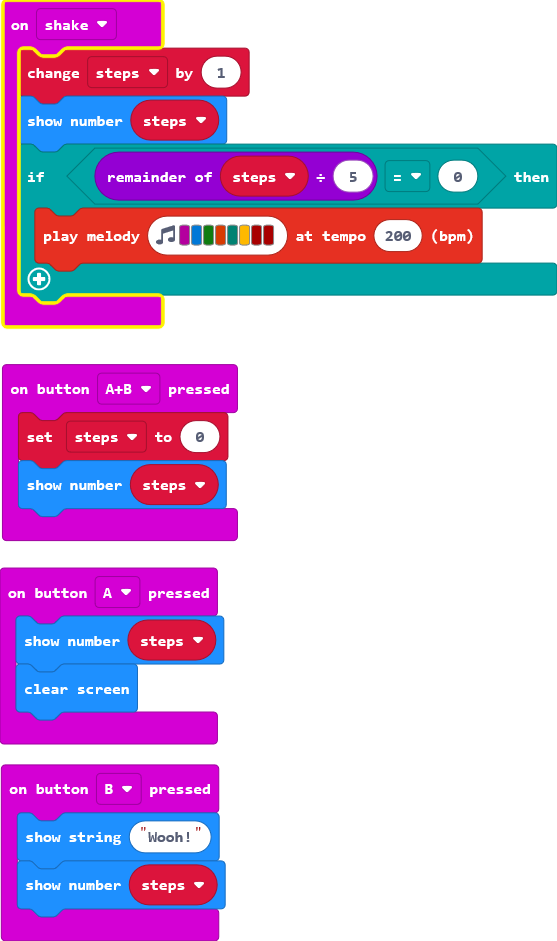
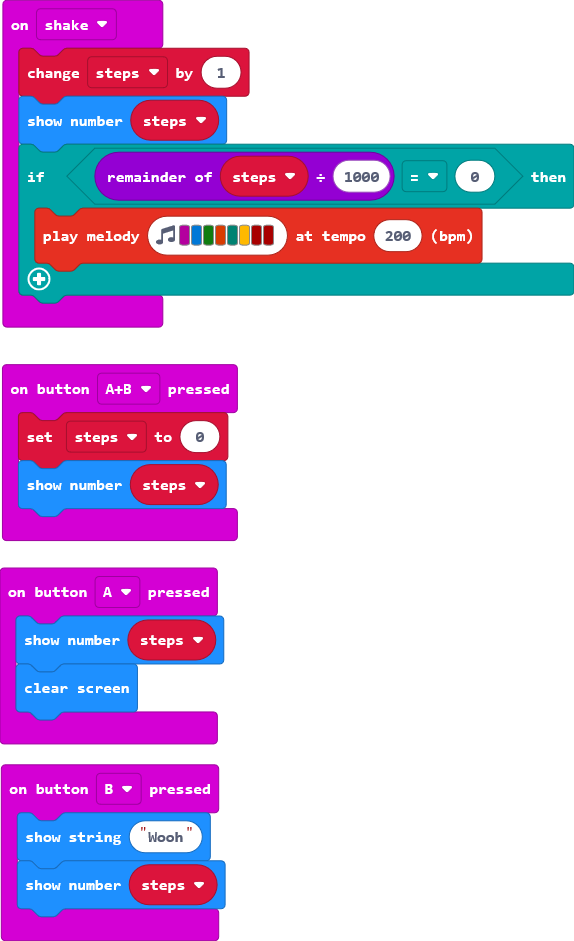
Change milestone step count from 5 to 1000

diff --git a/main.ts b/main.ts
@@ -8,13 +8,13 @@ input.onButtonPressed(Button.AB, function () {
     basic.showNumber(steps)
 })
 input.onButtonPressed(Button.B, function () {
-    basic.showString("Wooh!")
+    basic.showString("Wooh")
     basic.showNumber(steps)
 })
 input.onGesture(Gesture.Shake, function () {
     steps += 1
     basic.showNumber(steps)
-    if (steps % 5 == 0) {
+    if (steps % 1000 == 0) {
         music.playMelody("C E G B F A C5 C5 ", 200)
     }
 })
